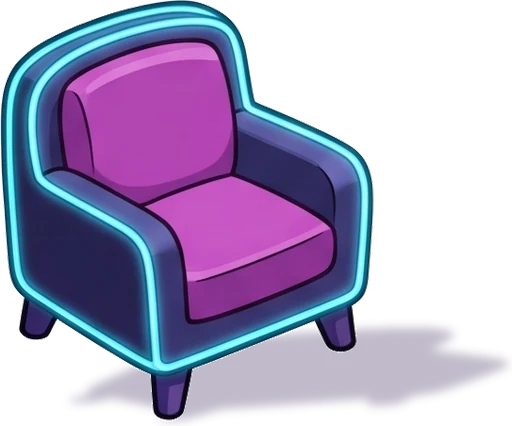
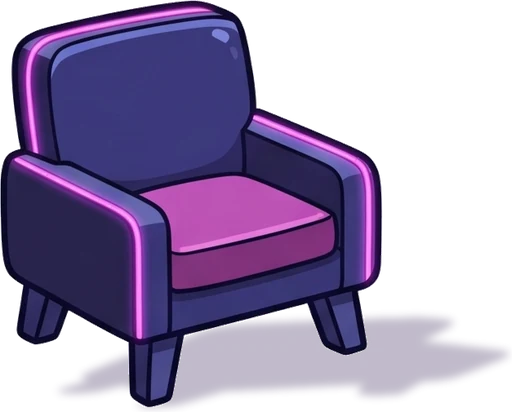
feat: Neon Pop room with the bed, wardrobe, desk and shelves drawn in; its sofa and armchair face the viewer

diff --git a/src/data/roomPlacement.test.ts b/src/data/roomPlacement.test.ts
@@ -506,24 +506,24 @@ describe('mission objects and the desk', () => {
   });
 
   describe('turning big items to the other wall', () => {
-    const neon = { ...baseProfile, themeId: 'neon-pop' } as LearnerProfile;
-    const { cornerX } = getRoomGeometry('neon-pop');
-    const sofaOnRightWall = placeRoomItemAt(neon, 'room-sofa', { x: 75, y: 88 }, NOW);
+    const focus = { ...baseProfile, themeId: 'focus-desk' } as LearnerProfile;
+    const { cornerX } = getRoomGeometry('focus-desk');
+    const sofaOnRightWall = placeRoomItemAt(focus, 'room-sofa', { x: 75, y: 88 }, NOW);
 
     it('marks only furniture with a front and a side as turnable', () => {
       ['room-sofa', 'object:bed', 'object:wardrobe', 'object:desk'].forEach((key) =>
-        expect(findEntry(key === 'room-sofa' ? sofaOnRightWall : neon, key)?.canRotate, key).toBe(true)
+        expect(findEntry(key === 'room-sofa' ? sofaOnRightWall : focus, key)?.canRotate, key).toBe(true)
       );
-      expect(findEntry(neon, 'object:phone')?.canRotate).toBe(false);
-      expect(findEntry(placeRoomItemAt(neon, 'room-books', { x: 70, y: 40 }, NOW), 'room-books')?.canRotate).toBe(false);
+      expect(findEntry(focus, 'object:phone')?.canRotate).toBe(false);
+      expect(findEntry(placeRoomItemAt(focus, 'room-books', { x: 70, y: 40 }, NOW), 'room-books')?.canRotate).toBe(false);
     });
 
     it('knows which wall a big item stands against from where it stands', () => {
       expect(findEntry(sofaOnRightWall, 'room-sofa')?.isOnLeftWall).toBe(false);
       // by default the bed and the wardrobe stand along the left wall, the desk along the right one
-      expect(findEntry(neon, 'object:bed')?.isOnLeftWall).toBe(true);
-      expect(findEntry(neon, 'object:wardrobe')?.isOnLeftWall).toBe(true);
-      expect(findEntry(neon, 'object:desk')?.isOnLeftWall).toBe(false);
+      expect(findEntry(focus, 'object:bed')?.isOnLeftWall).toBe(true);
+      expect(findEntry(focus, 'object:wardrobe')?.isOnLeftWall).toBe(true);
+      expect(findEntry(focus, 'object:desk')?.isOnLeftWall).toBe(false);
     });
 
     it('turns an item where it stands: only the picture changes wall, and turning twice turns it back', () => {
@@ -540,16 +540,16 @@ describe('mission objects and the desk', () => {
       const movedSofa = placeRoomItemAt(sofaOnRightWall, 'room-sofa', { x: 20, y: 92 }, NOW);
       expect(findEntry(movedSofa, 'room-sofa')!.point.x).toBeLessThan(cornerX);
       expect(findEntry(movedSofa, 'room-sofa')!.isOnLeftWall).toBe(false);
-      const movedDesk = moveRoomObject(neon, 'desk', { x: 20, y: 95 }, NOW);
+      const movedDesk = moveRoomObject(focus, 'desk', { x: 20, y: 95 }, NOW);
       expect(findEntry(movedDesk, 'object:desk')!.isOnLeftWall).toBe(false);
-      const turnedThenMoved = moveRoomObject(turnRoomItem(neon, 'object:desk', NOW), 'desk', { x: 85, y: 95 }, NOW);
+      const turnedThenMoved = moveRoomObject(turnRoomItem(focus, 'object:desk', NOW), 'desk', { x: 85, y: 95 }, NOW);
       expect(findEntry(turnedThenMoved, 'object:desk')!.isOnLeftWall).toBe(true);
     });
 
     it('keeps a turned item on the floor, below the baseboard', () => {
-      const geometry = getRoomGeometry('neon-pop');
+      const geometry = getRoomGeometry('focus-desk');
       ['room-sofa', 'object:bed', 'object:wardrobe', 'object:desk'].forEach((key) => {
-        const profile = turnRoomItem(key === 'room-sofa' ? sofaOnRightWall : neon, key, NOW);
+        const profile = turnRoomItem(key === 'room-sofa' ? sofaOnRightWall : focus, key, NOW);
         const entry = findEntry(profile, key)!;
         expect(entry.point.y, key).toBeGreaterThanOrEqual(floorEdgeY(geometry, entry.point.x));
         expect(entry.item.slotKind, key).toBe('floor');
@@ -557,7 +557,7 @@ describe('mission objects and the desk', () => {
     });
 
     it('turns the desk with what lies on it', () => {
-      const turned = turnRoomItem(neon, 'object:desk', NOW);
+      const turned = turnRoomItem(focus, 'object:desk', NOW);
       const desk = findEntry(turned, 'object:desk')!;
       expect(desk.isOnLeftWall).toBe(true);
       const phone = findEntry(turned, 'object:phone')!;
@@ -566,8 +566,8 @@ describe('mission objects and the desk', () => {
     });
 
     it('leaves items that cannot turn, and unknown keys, unchanged', () => {
-      expect(turnRoomItem(neon, 'object:phone', NOW)).toBe(neon);
-      expect(turnRoomItem(neon, 'nope', NOW)).toBe(neon);
+      expect(turnRoomItem(focus, 'object:phone', NOW)).toBe(focus);
+      expect(turnRoomItem(focus, 'nope', NOW)).toBe(focus);
     });
   });
 

diff --git a/src/components/room/RoomScene.test.tsx b/src/components/room/RoomScene.test.tsx
@@ -9,11 +9,11 @@ import { RoomScene } from './RoomScene';
 const NOW = new Date('2026-10-29T10:00:00.000Z');
 
 /** A room whose furniture is movable (not drawn into the room picture). */
-const neonProfile = () => makeProfile({ themeId: 'neon-pop' });
+const focusProfile = () => makeProfile({ themeId: 'focus-desk' });
 
 const profileWithSofa = () =>
   placeRoomItemAt(
-    makeProfile({ themeId: 'neon-pop', unlockedRewardIds: ['room-sofa'], room: { ...getRoom(makeProfile()), placements: {} } }),
+    makeProfile({ themeId: 'focus-desk', unlockedRewardIds: ['room-sofa'], room: { ...getRoom(makeProfile()), placements: {} } }),
     'room-sofa',
     { x: 75, y: 88 },
     NOW
@@ -22,7 +22,7 @@ const profileWithSofa = () =>
 function renderScene(profile: ReturnType<typeof makeProfile>, moveRequestKey: string | null = null) {
   return render(
     <RoomScene
-      themeId="neon-pop"
+      themeId="focus-desk"
       avatarEmoji="🐶"
       entries={getPlacedRoomEntries(profile)}
       avatarPos={AVATAR_HOME}
@@ -42,27 +42,27 @@ describe('RoomScene turned items', () => {
   it('shows the right-wall sofa picture, and the left-wall picture once the sofa is turned to the other wall', () => {
     const profile = profileWithSofa();
     const { unmount } = renderScene(profile);
-    expect(pictureOf('sofa · ספה')).toBe('/art/room/neon-pop/room-sofa.webp');
+    expect(pictureOf('sofa · ספה')).toBe('/art/room/focus-desk/room-sofa.webp');
     unmount();
 
     renderScene(turnRoomItem(profile, 'room-sofa', NOW));
-    expect(pictureOf('sofa · ספה')).toBe('/art/room/neon-pop/room-sofa-b.webp');
+    expect(pictureOf('sofa · ספה')).toBe('/art/room/focus-desk/room-sofa-b.webp');
   });
 });
 
 describe('RoomScene moving the games book', () => {
   it('shows both the floor and the desk top as places for the book', () => {
-    const { container } = renderScene(neonProfile(), 'object:games-book');
+    const { container } = renderScene(focusProfile(), 'object:games-book');
     expect(container.querySelectorAll('[data-zone]')).toHaveLength(2);
   });
 
   it('shows only the floor as a place for the bed', () => {
-    const { container } = renderScene(neonProfile(), 'object:bed');
+    const { container } = renderScene(focusProfile(), 'object:bed');
     expect(container.querySelectorAll('[data-zone]')).toHaveLength(1);
   });
 
   it('outlines a corner room floor along its baseboard, down to the bottom of the picture', () => {
-    const { container } = renderScene(neonProfile(), 'object:bed');
+    const { container } = renderScene(focusProfile(), 'object:bed');
     const outline = container.querySelector('[data-zone="floor"] polygon')?.getAttribute('points') ?? '';
     const points = outline.split(' ').map((pair) => pair.split(',').map(Number));
     expect(points.length).toBeGreaterThan(10);

diff --git a/src/data/roomGeometry.ts b/src/data/roomGeometry.ts
@@ -418,7 +418,61 @@ const ROOM_GEOMETRY: Record<ThemeId, RoomGeometry> = {
     gamesBook: { x: 55, y: 90 },
     avatarHome: { x: 50, y: 92 },
   }),
-  'neon-pop': cornerRoom({ cornerX: 57.5, window: { xMin: 12, xMax: 45, yMin: 10, yMax: 66 }, edge: [88, 64, 82], sill: { xMin: 14, xMax: 38, y: 61 } }),
+  'neon-pop': bakedRoom({
+    cornerX: 50.5,
+    window: { xMin: 25, xMax: 43.5, yMin: 9.5, yMax: 45.5 },
+    edge: [74, 47, 71.5],
+    wallLeft: { xMin: 6, xMax: 21, yMin: 19, yMax: 25 },
+    wallRight: { xMin: 87, xMax: 95, yMin: 21, yMax: 30 },
+    board: { xMin: 69, xMax: 79, yMin: 15, yMax: 16.5 },
+    shelves: [
+      { id: 'shelf-high', xMin: 65, xMax: 82.5, y: 24.1, tilt: 0.32 },
+      { id: 'shelf-low', xMin: 77.5, xMax: 95.5, y: 38.1, tilt: 0.28 },
+      { id: 'window-sill', xMin: 28, xMax: 41, y: 43 },
+    ],
+    baked: {
+      roomPicture: '/art/neon-pop/room-baked.webp',
+      pieces: [
+        {
+          id: 'wardrobe',
+          tapArea: [{ x: 3, y: 34 }, { x: 10, y: 30 }, { x: 18, y: 28 }, { x: 24.5, y: 31.5 }, { x: 24.5, y: 72 }, { x: 10, y: 80 }, { x: 3, y: 76 }],
+          standAt: { x: 27, y: 83 },
+          bubbleAt: { x: 14, y: 27 },
+        },
+        {
+          id: 'bed',
+          tapArea: [{ x: 26.5, y: 50 }, { x: 30, y: 48 }, { x: 42, y: 44 }, { x: 49, y: 38 }, { x: 49, y: 33 }, { x: 51, y: 32 }, { x: 64.5, y: 38 }, { x: 65, y: 57 }, { x: 41, y: 72 }, { x: 26.5, y: 63 }],
+          standAt: { x: 47, y: 80 },
+          bubbleAt: { x: 50, y: 30 },
+        },
+        {
+          id: 'desk',
+          tapArea: [{ x: 68, y: 52 }, { x: 77, y: 47.5 }, { x: 97.5, y: 56.5 }, { x: 97, y: 73 }, { x: 89, y: 79.5 }, { x: 87, y: 79.5 }, { x: 70, y: 70 }, { x: 68, y: 55 }],
+          standAt: { x: 72, y: 85 },
+          bubbleAt: { x: 83, y: 47 },
+        },
+      ],
+      freeFloorEdge: [
+        { x: 0, y: 75 },
+        { x: 3.5, y: 75.5 },
+        { x: 10, y: 80 },
+        { x: 24.5, y: 72.5 },
+        { x: 25, y: 61.5 },
+        { x: 26.5, y: 63 },
+        { x: 41, y: 72.5 },
+        { x: 65, y: 57.5 },
+        { x: 66.5, y: 55 },
+        { x: 68.5, y: 55 },
+        { x: 70.5, y: 70 },
+        { x: 88.5, y: 79.5 },
+        { x: 95.5, y: 75 },
+        { x: 100, y: 71.5 },
+      ],
+      deskTop: [{ x: 69, y: 52.8 }, { x: 77, y: 48.4 }, { x: 96.2, y: 56.8 }, { x: 88.6, y: 61.8 }],
+    },
+    gamesBook: { x: 55, y: 90 },
+    avatarHome: { x: 50, y: 92 },
+  }),
   'starlight-rpg': bakedRoom({
     cornerX: 55,
     window: { xMin: 21, xMax: 43, yMin: 14, yMax: 48 },

diff --git a/src/data/roomArtManifest.ts b/src/data/roomArtManifest.ts
@@ -58,10 +58,10 @@ export const ROOM_ART: Record<string, Record<string, RoomArtSprite>> = {
     'furniture-shelf-low': { aspect: 2.0729, left: 0.0, right: 1.0, top: 0.0, bottom: 1.0, slope: -0.261 },
     'furniture-sill': { aspect: 1.9583, left: 0.0, right: 1.0, top: 0.0, bottom: 1.0, slope: -0.339 },
     'furniture-board': { aspect: 0.8998, left: 0.0, right: 1.0, top: 0.0, bottom: 1.0, slope: -0.364 },
-    'room-sofa': { aspect: 1.5754, left: 0.0, right: 0.8113, top: 0.0, bottom: 0.987, slope: 0.394 },
-    'room-sofa-b': { aspect: 1.641, left: 0.0, right: 0.7781, top: 0.0, bottom: 0.987, slope: -0.392 },
-    'room-chair': { aspect: 1.3095, left: 0.0, right: 0.6689, top: 0.0, bottom: 0.9867, slope: 0.393 },
-    'room-chair-b': { aspect: 1.2019, left: 0.0, right: 0.7293, top: 0.0, bottom: 0.9867, slope: -0.353 },
+    'room-sofa': { aspect: 1.8028, left: 0.0, right: 0.7992, top: 0.0, bottom: 0.9852, slope: 0.0 },
+    'room-sofa-b': { aspect: 1.8028, left: 0.0, right: 0.7992, top: 0.0, bottom: 0.9852, slope: 0.0 },
+    'room-chair': { aspect: 1.2427, left: 0.0, right: 0.7464, top: 0.0, bottom: 0.9881, slope: 0.0 },
+    'room-chair-b': { aspect: 1.2427, left: 0.0, right: 0.7464, top: 0.0, bottom: 0.9881, slope: 0.0 },
     'object-bed': { aspect: 1.5468, left: 0.0, right: 0.7136, top: 0.0, bottom: 0.9887, slope: 0.415 },
     'object-bed-b': { aspect: 1.323, left: 0.0, right: 0.8364, top: 0.0, bottom: 0.9887, slope: -0.386 },
     'object-wardrobe': { aspect: 1.0964, left: 0.0, right: 0.576, top: 0.0, bottom: 0.9904, slope: 0.36 },

diff --git a/scripts/art/process_room_art.py b/scripts/art/process_room_art.py
@@ -79,6 +79,8 @@ FRONT_PICKS = {
     'starlight-rpg/room-chair': 2,
     'cozy-studio/room-sofa': 3,
     'cozy-studio/room-chair': 3,
+    'neon-pop/room-sofa': 2,
+    'neon-pop/room-chair': 1,
 }
 SHADOW_SQUASH = 0.22  # the shadow's height as a share of the object's (light from high up on the left)
 SHADOW_LEAN = 0.55  # pixels to the right per pixel of the object's height
